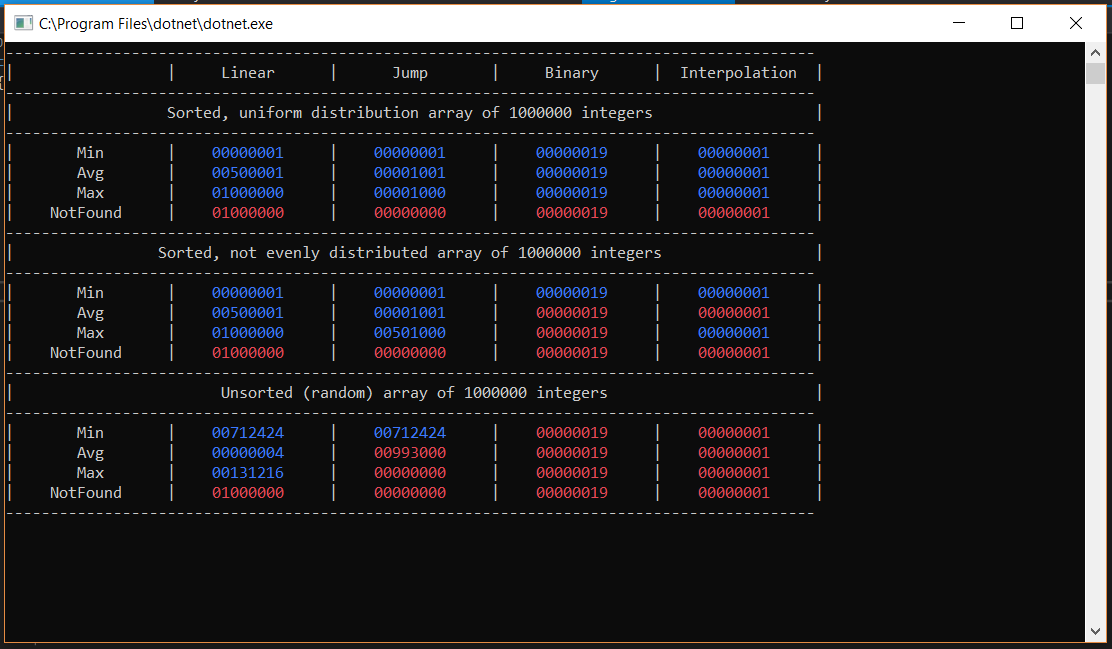
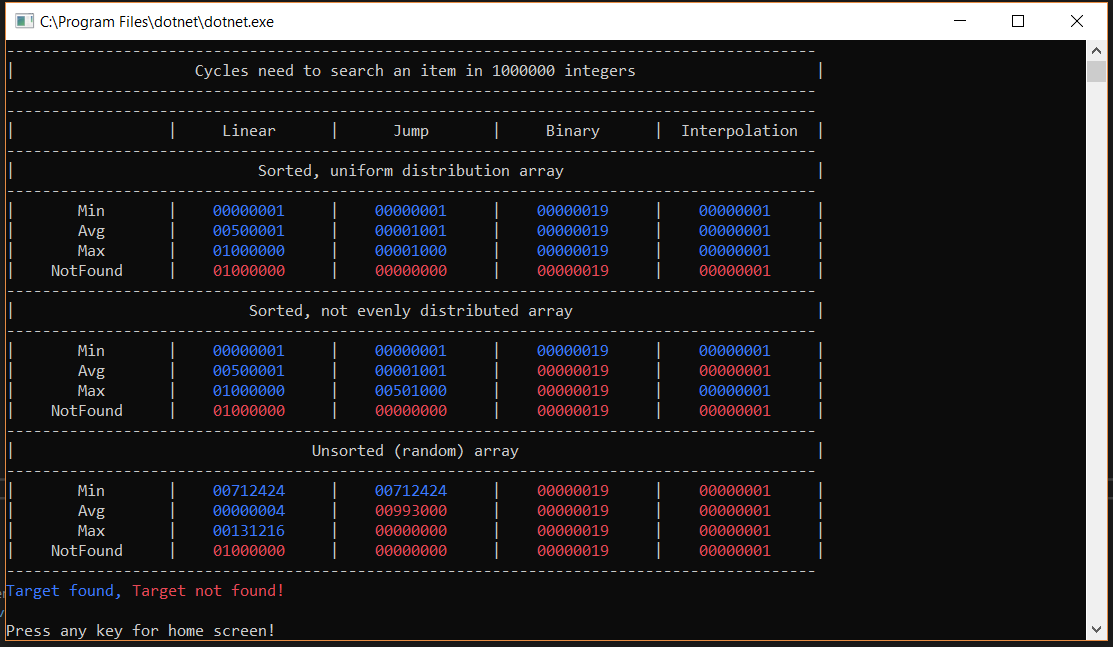
results png

diff --git a/BasicAlgorithms/UI/ArraySearchUI.cs b/BasicAlgorithms/UI/ArraySearchUI.cs
@@ -18,6 +18,7 @@ namespace BasicAlgorithms.UI
 
         public void Print()
         {
+            this.PrintLine();
             this.PrintRow("Cycles need to search an item in " + _searchFactory.SampleSize + " integers");
             this.PrintLine();
 
@@ -51,6 +52,14 @@ namespace BasicAlgorithms.UI
                 _searchFactory.Estimate(eArraysSearchAlgorithms.Binary, eSearchDataProviders.Unsorted),
                 _searchFactory.Estimate(eArraysSearchAlgorithms.Interpolation, eSearchDataProviders.Unsorted)
             );
+
+            var color = Console.ForegroundColor;
+            Console.ForegroundColor = ConsoleColor.Blue;
+            Console.Write("Target found, ");
+            Console.ForegroundColor = ConsoleColor.Red;
+            Console.Write("Target not found!");
+            Console.WriteLine();
+            Console.ForegroundColor = color;
         }
 
         private void PrintGrid(SearchResults l, SearchResults j, SearchResults b, SearchResults i)
